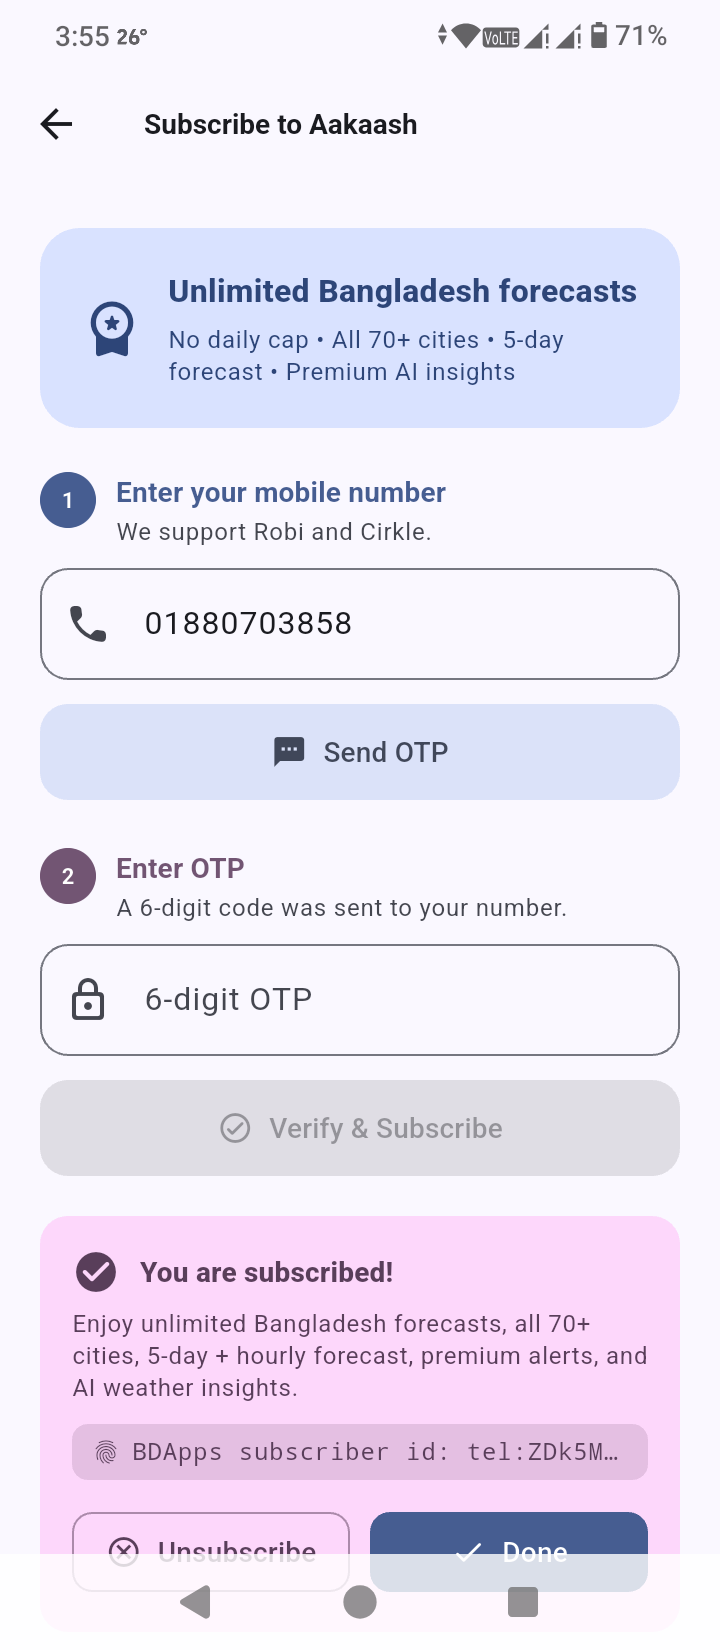
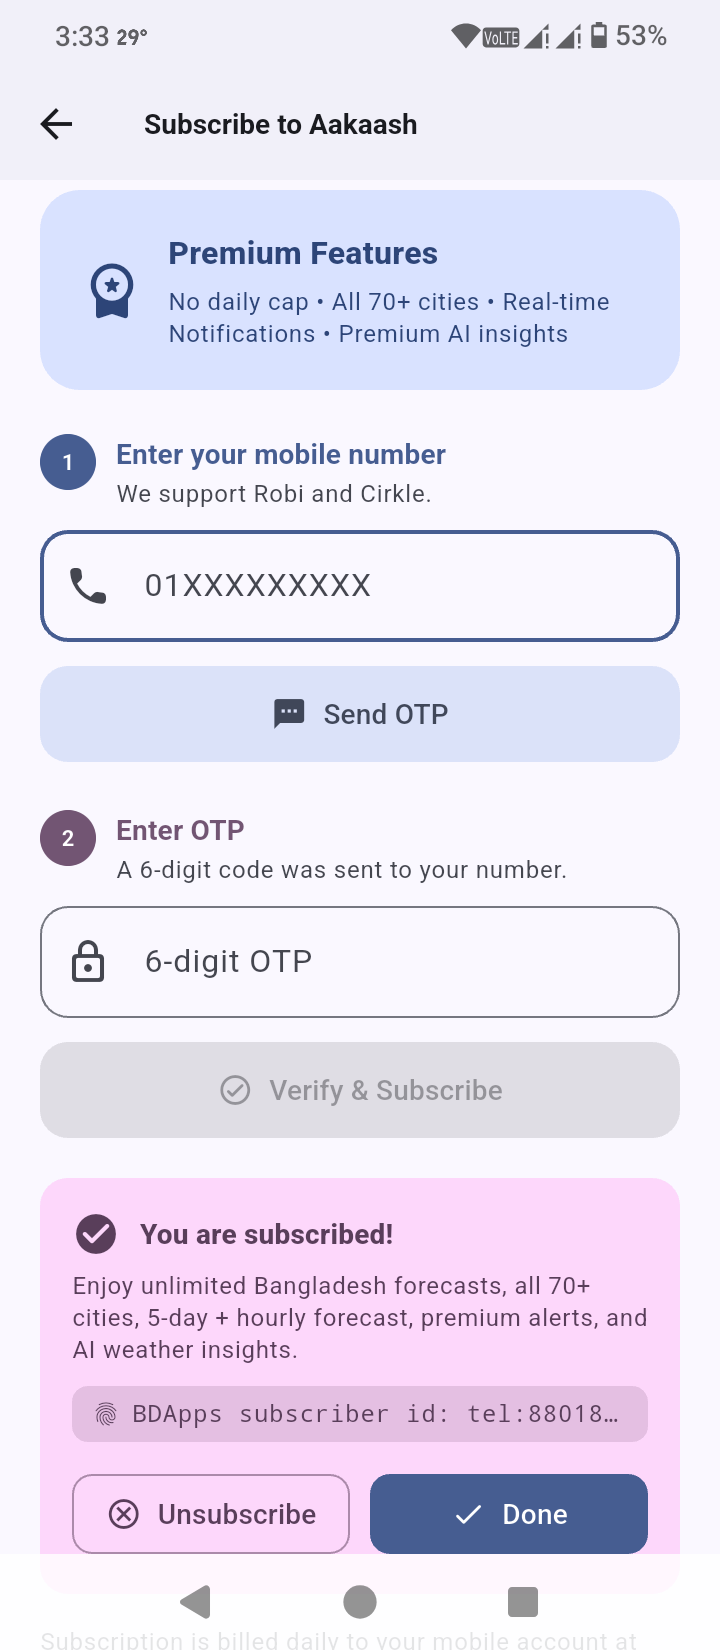
Update screenshots and resolve numbering conflicts

diff --git a/README.md b/README.md
@@ -95,8 +95,8 @@ Bangladesh-native.**
 </p>
 <p align="center">
   <img src="screenshots/10-%20homescreen%20widget.png" width="31%" />
-  <img src="screenshots/10-%20subscription%20gated%20AI%20insights.png" width="31%" />
-  <img src="screenshots/11-%20subscription%20gated%20notifications.png" width="31%" />
+  <img src="screenshots/11-%20subscription%20gated%20AI%20insights.png" width="31%" />
+  <img src="screenshots/12-%20subscription%20gated%20notifications.png" width="31%" />
 </p>
 <br/>
 <p align="center">
